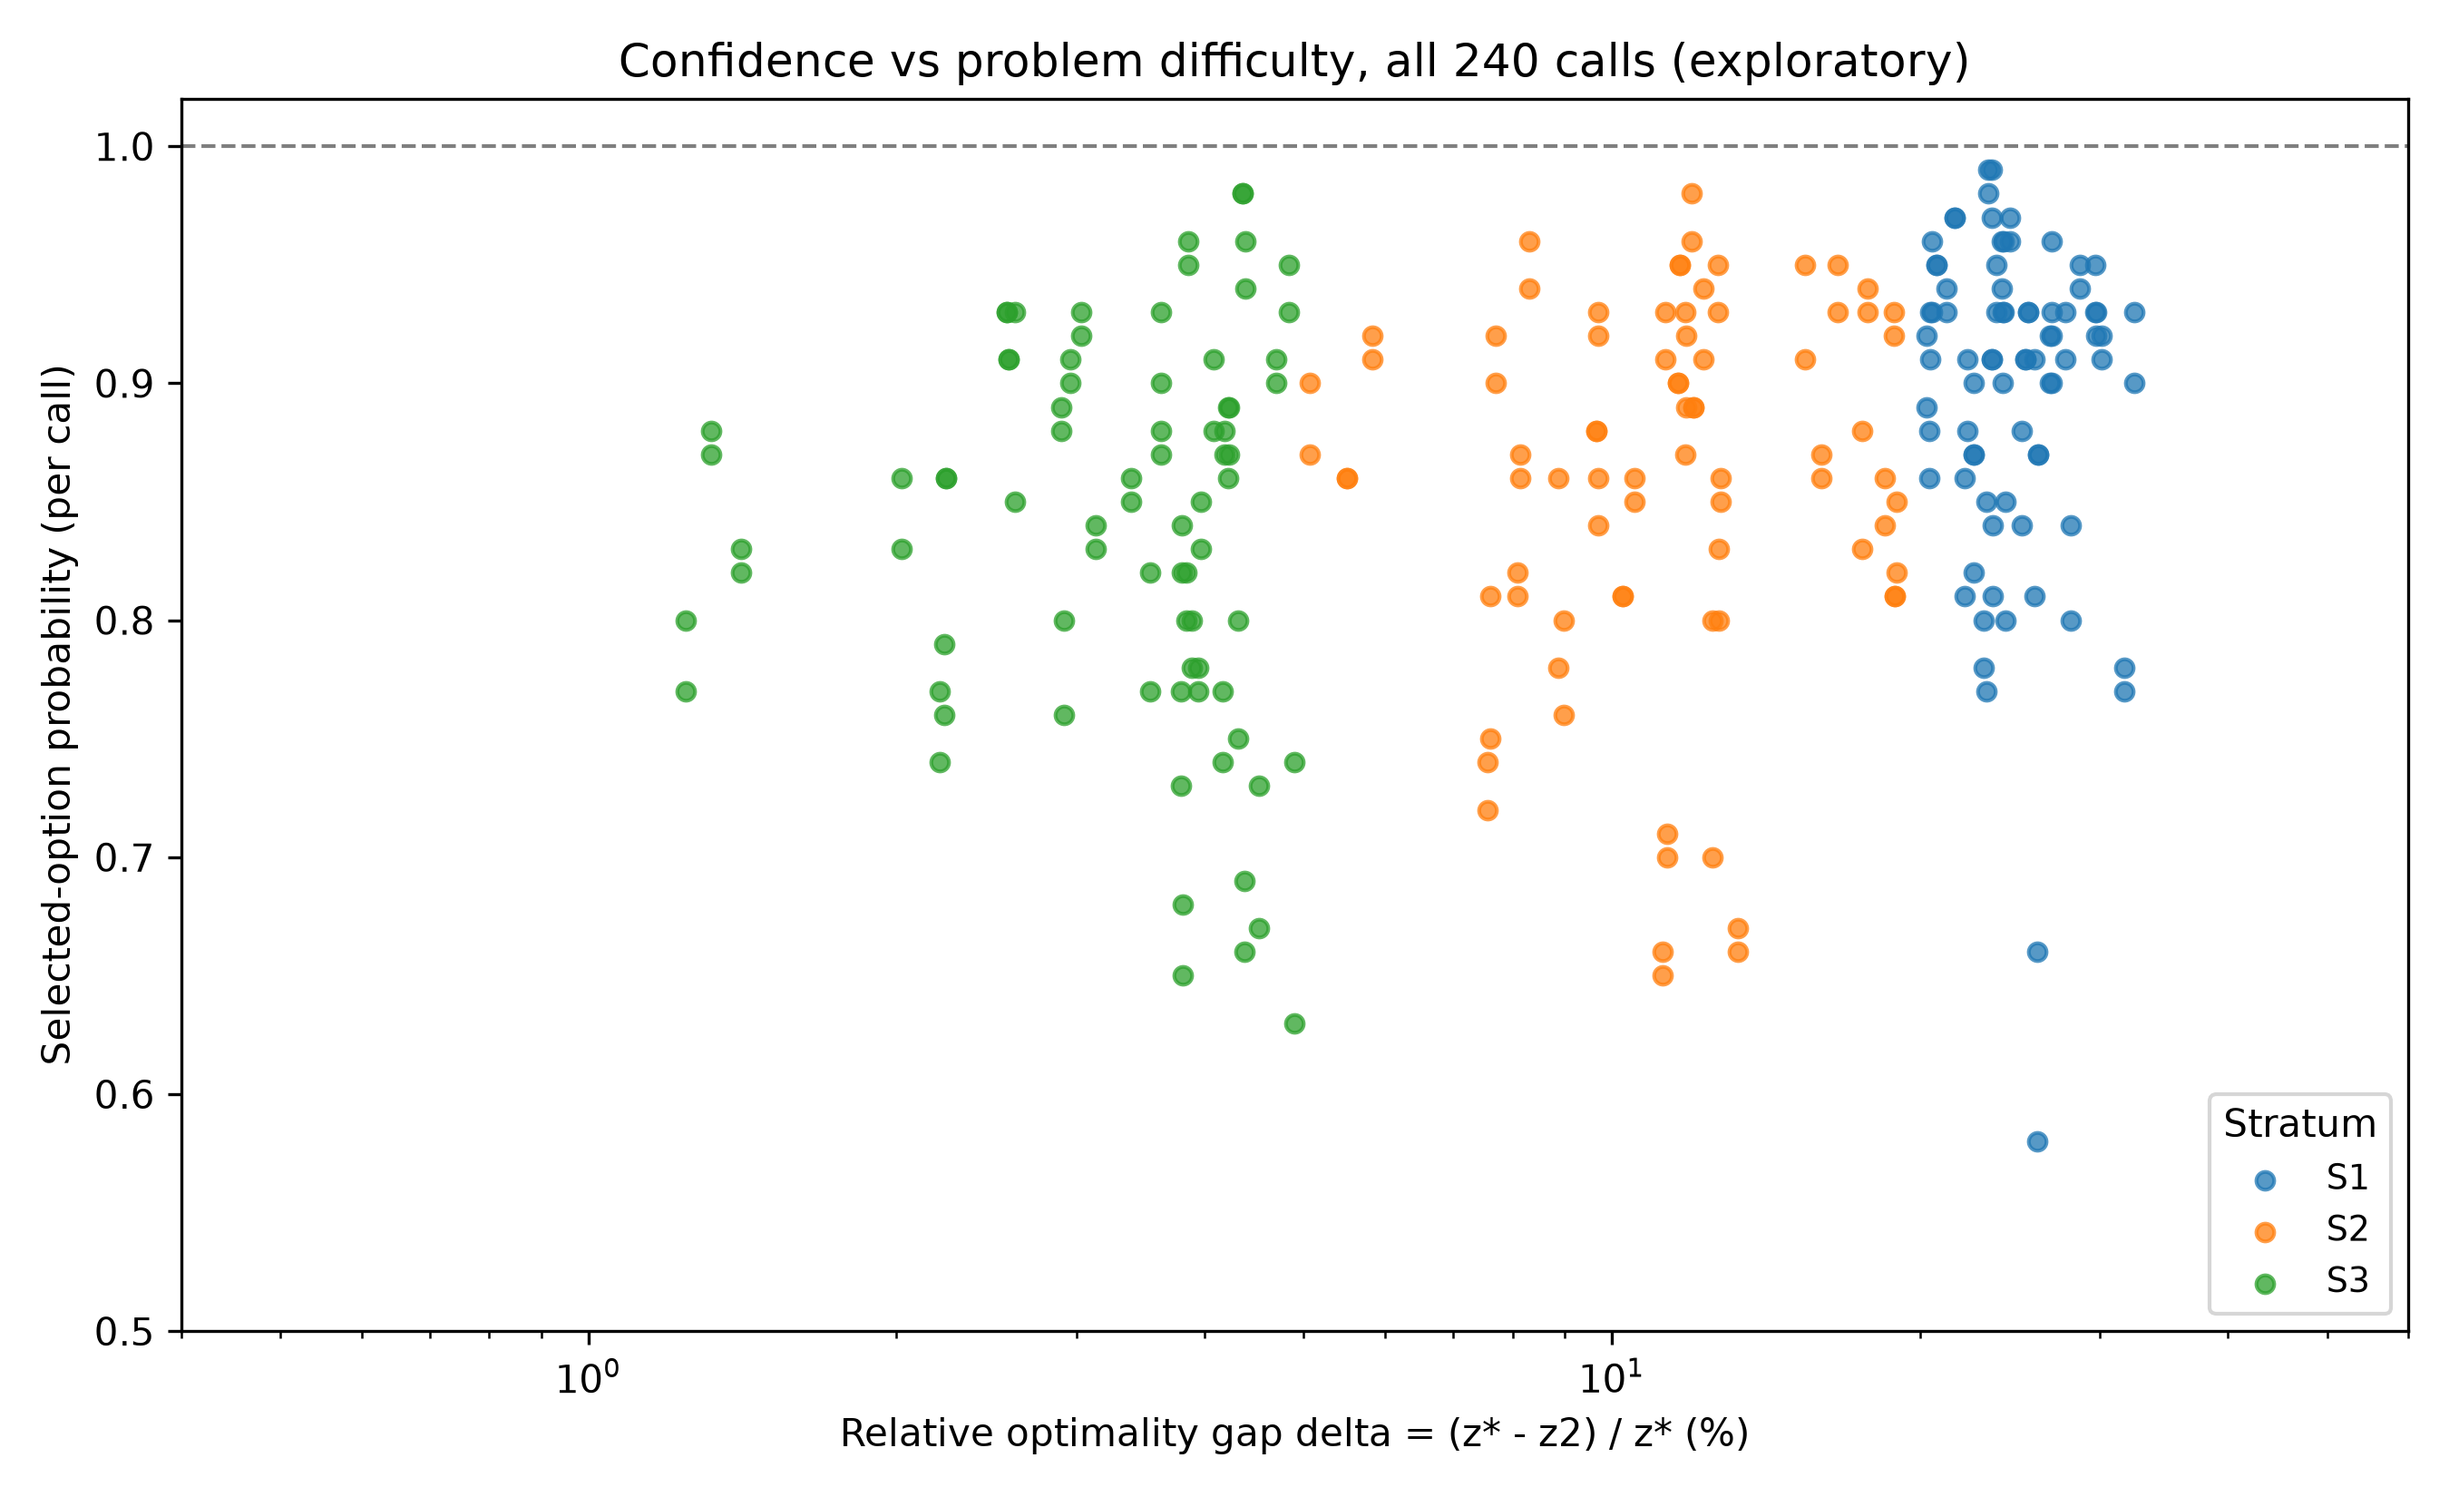
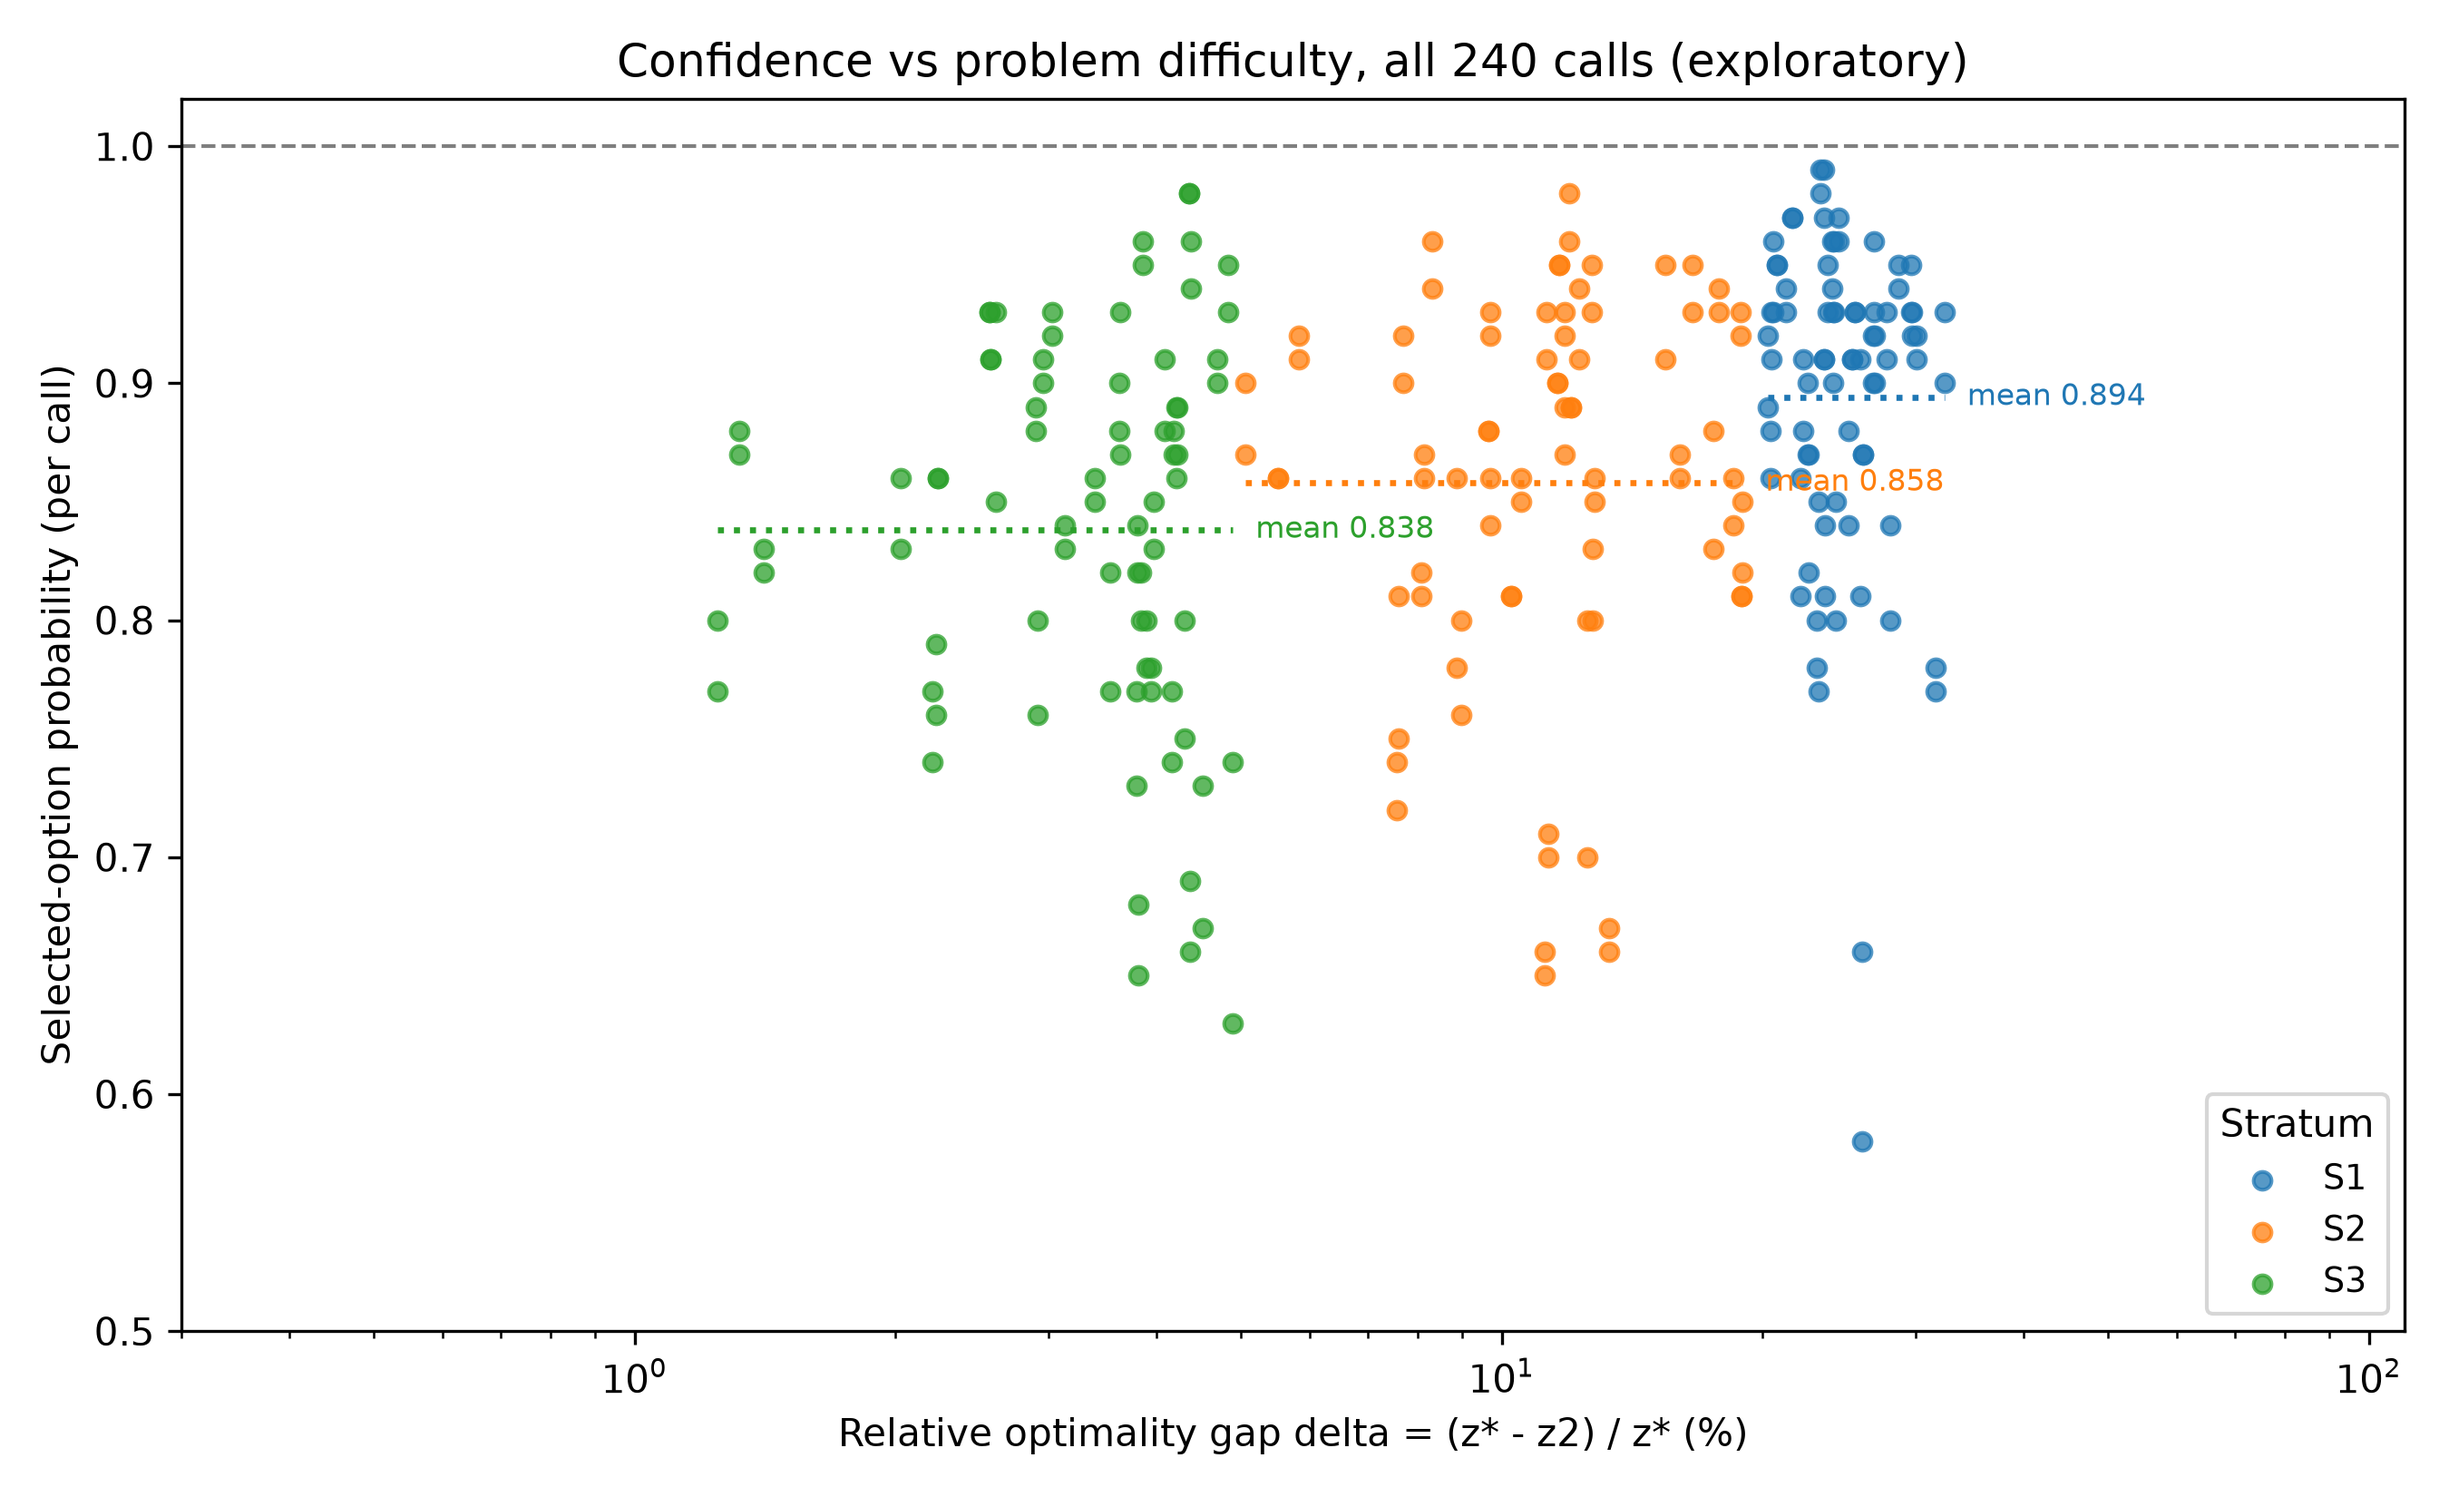
docs(readme): presentation parity and academic closure sections (#13)

diff --git a/figures/fig3-stratified-confidence.py b/figures/fig3-stratified-confidence.py
@@ -55,7 +55,9 @@ def main():
             sd = var**0.5
             pos = j + (i - 0.5) * width
             ax.bar(pos, m, width * 0.92, yerr=sd, capsize=4,
-                   color=STRATUM_COLORS[s], alpha=0.55 if i else 1.0,
+                   color=STRATUM_COLORS[s],
+                   hatch="///" if i else None,
+                   edgecolor="black", linewidth=0.4,
                    error_kw={"linewidth": 1})
             ax.annotate(f"{m:.3f}", (pos, m), textcoords="offset points",
                         xytext=(0, 4), ha="center", fontsize=8)
@@ -65,12 +67,12 @@ def main():
     ax.set_ylabel("Mean probability per call (error bars: sd)")
     ax.set_title("Confidence by stratum, all 240 calls (exploratory)")
     from matplotlib.patches import Patch
-    from matplotlib.lines import Line2D
 
     handles = [
-        Patch(facecolor="#7f7f7f", label="Selected-option probability"),
-        Patch(facecolor="#7f7f7f", alpha=0.55, label="Stated confidence"),
-        Line2D([0], [0], color="#7f7f7f", linewidth=1, label="sd within stratum"),
+        Patch(facecolor="#7f7f7f", edgecolor="black", linewidth=0.4,
+              label="Selected-option probability"),
+        Patch(facecolor="#7f7f7f", edgecolor="black", linewidth=0.4,
+              hatch="///", label="Stated confidence"),
     ]
     ax.legend(handles=handles, loc="lower left", fontsize=9)
     fig.tight_layout()

diff --git a/figures/fig1-confidence-vs-gap.py b/figures/fig1-confidence-vs-gap.py
@@ -42,6 +42,13 @@ def main():
             ys.append(float(r["selected_prob"]))
         ax.scatter(xs, ys, s=22, alpha=0.75, color=STRATUM_COLORS[stratum],
                    label=stratum)
+        mean = sum(ys) / len(ys)
+        ax.hlines(mean, min(xs), max(xs), color=STRATUM_COLORS[stratum],
+                  linestyle=":", linewidth=1.6)
+        ax.annotate(f"mean {mean:.3f}", (max(xs), mean),
+                    textcoords="offset points", xytext=(6, 0),
+                    va="center", fontsize=8,
+                    color=STRATUM_COLORS[stratum])
     ax.set_xscale("log")
     ax.set_xlim(0.4, 60)
     ax.set_ylim(0.5, 1.02)
@@ -49,6 +56,7 @@ def main():
     ax.set_ylabel("Selected-option probability (per call)")
     ax.set_title("Confidence vs problem difficulty, all 240 calls (exploratory)")
     ax.axhline(1.0, color="#7f7f7f", linestyle="--", linewidth=1)
+    ax.set_xlim(0.3, 110)
     ax.legend(title="Stratum", loc="lower right", fontsize=9)
     fig.tight_layout()
     out = pathlib.Path(__file__).resolve().parent / "fig1-confidence-vs-gap.png"

diff --git a/README.md b/README.md
@@ -5,12 +5,14 @@
 [![DOI](https://zenodo.org/badge/DOI/10.5281/zenodo.23307259.svg)](https://doi.org/10.5281/zenodo.23307259)
 [![License: Apache-2.0](https://img.shields.io/badge/License-Apache_2.0-blue.svg)](LICENSE)
 [![Result](https://img.shields.io/badge/result-120%2F120_agreement_ceiling-red)](results/v2.md)
-
-</div>
+[![Calls](https://img.shields.io/badge/calls-240-blue)](results/calls-v2.jsonl)
+[![Strata](https://img.shields.io/badge/strata-3-orange)](preregistration-v2.0.md)
 
 ## Abstract
 
 Can a typed probabilistic judge discriminate the optimal candidate from near-optimal and infeasible decoys in small linear-program menus, and are its answers stable across repeated calls? We present two pre-registered phases of a typed probabilistic judge on a frozen 3-variable integer linear-program task. The v1.0.0 stability phase probed run-to-run stability on 60 calls. The v2.0.0 discrimination phase froze a 120-problem set (40/40/40 strata by relative optimality gap) before any call, ran 120 problems x 2 passes at model pin `jev-1.13.0` under a sealed reading criterion, and analyzed preregistered endpoints with exact Fraction arithmetic. The judge answered every problem correctly in both passes: per-stratum both-call agreement is 40/40 with Wilson 95% CI [0.912, 1.000], the infeasible super-optimal decoy is never selected (0/240), Brier score is 0.0251, and ECE is 0.1366. The instrument saturates at this difficulty, so the strata do not discriminate; the Fisher exact S1-versus-S3 test (p = 1.0) is a ceiling artifact. A clearly labeled post-hoc addendum then surfaces a graded structure the pooled framing missed: mean selected-option probability descends monotonically with difficulty (0.894, 0.858, 0.838 across strata; S1 versus S3 Welch t = 4.63) even though selections never flip. The gradient is stratum-level rather than instance-level, and pass-to-pass probabilities drift (mean |delta| = 0.0245) while the argmax stays fixed. The exhibit concludes at v2.0.0 with the ceiling as an instrument property and the headroom to a v2.1 quantified.
+
+</div>
 
 ## Status
 
@@ -33,7 +35,7 @@ Can a typed probabilistic judge discriminate the optimal candidate from near-opt
 | Prune failure | 0/40 | 0/40 | 0/40 | 0/240 |
 | Per-problem disagreement | 0/40 | 0/40 | 0/40 | 0/120 |
 
-Fisher exact S1 vs S3 (two-sided, pre-specified): p = 1.0. Brier score on the selected-option probability: 0.0251. ECE, 5 equal-width bins: 0.1366. Position-bias check: agreement 1.000 and prune failure 0.000 at every optimal-candidate position (n=48 calls per position).
+Fisher exact S1 versus S3 (two-sided, pre-specified): p = 1.0. Brier score on the selected-option probability: 0.0251. ECE, 5 equal-width bins: 0.1366. Position-bias check: agreement 1.000 and prune failure 0.000 at every optimal-candidate position (n=48 calls per position).
 
 *Table 3: Post-hoc stratified-calibration summary per stratum (80 calls each; `experiments/judge-enumeration-v2/calibration.json`, not preregistered).*
 
@@ -69,13 +71,13 @@ flowchart TD
 
 All figures derive only from the raw v2 run records plus the committed oracle, reusing the sealed-criterion code in `experiments/judge-enumeration-v2/analyze_v2.py`. The reliability diagram behind the ECE remains in [results/v2.md](results/v2.md).
 
-![Per-call selected-option probability against relative optimality gap for all 240 v2 calls, colored by stratum](figures/fig1-confidence-vs-gap.png)
+![Per-call selected-option probability against relative optimality gap for all 240 v2 calls, colored by stratum, with dotted per-stratum mean lines](figures/fig1-confidence-vs-gap.png)
 
-*Figure 2: Exploratory. Per-call selected-option probability against the committed relative optimality gap (log scale), all 240 calls, colored by stratum. Selections are correct everywhere, so the endpoint cannot vary; confidence does. No monotone confidence-versus-difficulty trend is claimed or tested.*
+*Figure 2: Exploratory. Per-call selected-option probability against the committed relative optimality gap (log scale), all 240 calls, colored by stratum. Dotted lines mark each stratum's mean selected probability (S1 0.894, S2 0.858, S3 0.838), making the descending stratum gradient visible. Selections are correct everywhere, so the endpoint cannot vary; confidence does. No monotone confidence-versus-difficulty trend is claimed or tested.*
 
-![Mean selected-option probability and stated confidence per stratum, S1 through S3 over 80 calls each, both measures descending monotonically with sd error bars](figures/fig3-stratified-confidence.png)
+![Grouped bars of mean selected-option probability and stated confidence per stratum, S1 through S3 over 80 calls each, stated-confidence bars hatched, with sd error bars](figures/fig3-stratified-confidence.png)
 
-*Figure 3: Post-hoc (not preregistered). Mean selected-option probability (solid) and stated confidence (faded) per stratum over 80 calls each, with within-stratum sd error bars. Both measures descend monotonically from S1 to S3 although the selected option never flips; see [findings-calibration.md](experiments/judge-enumeration-v2/findings-calibration.md).*
+*Figure 3: Post-hoc (not preregistered). Mean selected-option probability (plain bars) and stated confidence (hatched bars) per stratum over 80 calls each, with within-stratum sd error bars. Both measures descend monotonically from S1 to S3 although the selected option never flips; see [findings-calibration.md](experiments/judge-enumeration-v2/findings-calibration.md).*
 
 ## Structure
 
@@ -105,3 +107,63 @@ uv run --with matplotlib python figures/fig3-stratified-confidence.py
 ## License
 
 Apache-2.0.
+
+## Inspecting the Data
+
+*Code Snippet 1: Commands to inspect raw call records, the call log, and the post-hoc calibration summary.*
+
+```bash
+# Verbatim request and response for one call
+jq '{request, response}' results/raw/v2/run-001.json
+
+# Confirm every call used the pinned model with no fallback
+jq -c '{model, fallback}' results/calls-v2.jsonl | sort | uniq -c
+
+# All calls for one problem across both passes
+jq -c 'select(.problem_id == "p-001") | {run, pass}' results/calls-v2.jsonl
+
+# Selected option and stated confidence for one call
+jq '.response.answers.selection | {choice, confidence}' \
+  results/raw/v2/run-001.json
+
+# Per-stratum count of calls behind the calibration addendum
+jq '.strata | to_entries[] | {stratum: .key, n: .value.n}' \
+  experiments/judge-enumeration-v2/calibration.json
+
+# Stratum assignment of one problem from the committed oracle
+jq '."p-001"' oracle-v2.json
+```
+
+## Software Versions
+
+*Table 4: Software versions used to produce and analyze the committed records.*
+
+| Component | Version | Notes |
+| --- | --- | --- |
+| Judge model | jev-1.13.0 | Pinned in every call record (`results/calls-v2.jsonl`) |
+| Python | 3.14.8 | `python3`, sealed analysis and calibration scripts |
+| Python (uv) | 3.15.0 | Figure rendering via `uv run --with matplotlib` |
+| matplotlib | 3.11.2 | Figures |
+
+## Ethics Statement
+
+This research involves no human subjects. All runs are automated LLM evaluation calls against a typed probabilistic judge on synthetic linear-program menus. No personally identifiable information is collected or processed. The problem set and reading criterion were frozen before any judge call; the post-hoc stratified-calibration addendum is clearly labeled as not preregistered.
+
+## Data Availability
+
+This repository contains the complete dataset, preregistrations, sealed analysis, and figure scripts. All files are public under the Apache License 2.0. The raw request and response records for all 240 v2 calls are in `results/raw/v2/`, with the append-only call log in `results/calls-v2.jsonl`; the v1.0.0 stability records are in `results/raw/`. Release v2.0.0 and DOI [10.5281/zenodo.23307259](https://doi.org/10.5281/zenodo.23307259) archive the exhibit. Nothing has been excluded or selectively reported.
+
+## Citation
+
+If you use this dataset or methodology, please cite it (metadata in [CITATION.cff](CITATION.cff)):
+
+```bibtex
+@dataset{clouatre2026sealedjudge,
+  title  = {Sealed Judge Enumeration Exhibit},
+  author = {Clouatre, Hugues},
+  year   = {2026},
+  note   = {Version 2.0.0},
+  doi    = {10.5281/zenodo.23307259},
+  url    = {https://github.com/clouatre-labs/judge-enumeration-exhibit}
+}
+```

diff --git a/docs/conclusion.md b/docs/conclusion.md
@@ -42,8 +42,8 @@ number below is a committed value.
    selected-option probability descends monotonically with difficulty
    (0.894, 0.858, 0.838 across S1, S2, S3; stated confidence 0.867,
    0.821, 0.797; S1 versus S3 Welch t = 4.63) even though selections
-   never flip, with structured runner-up mass (0.053 to 0.082) and
-   rising entropy (0.625 to 0.859 bits) and a gap-independent infeasible
+   never flip, with structured runner-up mass (0.053 to 0.082), rising
+   entropy (0.625 to 0.859 bits), and a gap-independent infeasible
    decoy mass (about 0.015 to 0.020). This gradient is stratum-level,
    not instance-level: within-stratum correlation of gap with
    confidence is approximately zero, so the signal does not support
